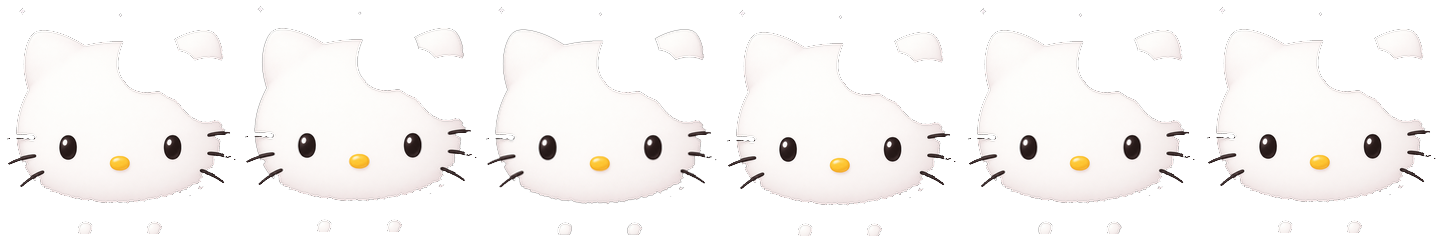
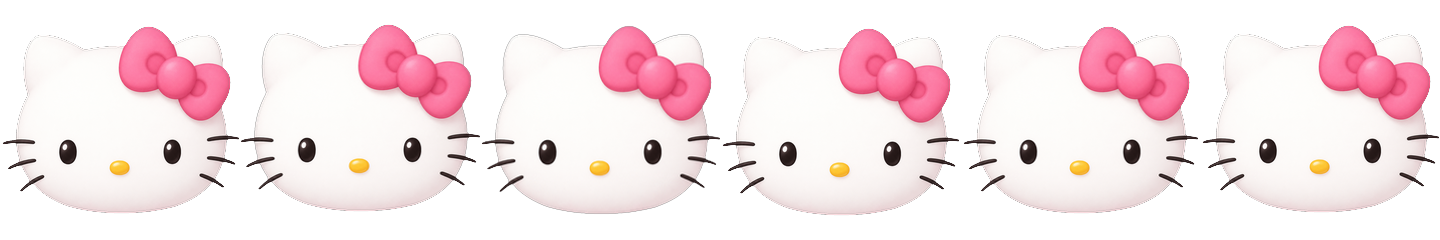
fix: 素材抠图改用 U2-Net 分割，保留粉色身体与蝴蝶结
- 旧颜色泛洪会把与背景同色系的粉身体/蝴蝶结误删（显示为黑色空洞）
- apply_pet_asset.py 优先 rembg(u2net)，失败回退颜色泛洪
- 只保留最大连通块并做边缘去粉、羽化

diff --git a/scripts/apply_pet_asset.py b/scripts/apply_pet_asset.py
@@ -30,7 +30,7 @@ def is_pink(p):
 
 
 def cutout_mask(im):
-    """从粉色背景中抠出主体：边缘粉色 flood fill，主体内部粉色保留。"""
+    """旧版颜色泛洪（仅作回退方案）：适合"白猫 + 粉背景"。"""
     w, h = im.size
     px = im.load()
     visited = bytearray(w * h)
@@ -63,13 +63,95 @@ def cutout_mask(im):
     return mask
 
 
-def clean_cutout(im, mask):
-    """收边 1px + 羽化，减少粉边残留。"""
+def largest_component(mask, threshold=128):
+    """只保留最大连通块，去掉模型/泛洪产生的背景残留小块。"""
+    w, h = mask.size
+    data = mask.load()
+    visited = bytearray(w * h)
+    best = None
+    for sy in range(h):
+        for sx in range(w):
+            idx = sy * w + sx
+            if visited[idx] or data[sx, sy] <= threshold:
+                continue
+            comp = []
+            dq = deque([(sx, sy)])
+            visited[idx] = 1
+            while dq:
+                x, y = dq.popleft()
+                comp.append((x, y))
+                for dx, dy in ((-1, 0), (1, 0), (0, -1), (0, 1)):
+                    nx, ny = x + dx, y + dy
+                    if 0 <= nx < w and 0 <= ny < h:
+                        nidx = ny * w + nx
+                        if not visited[nidx] and data[nx, ny] > threshold:
+                            visited[nidx] = 1
+                            dq.append((nx, ny))
+            if best is None or len(comp) > len(best):
+                best = comp
+    out = Image.new("L", (w, h), 0)
+    if best:
+        op = out.load()
+        for x, y in best:
+            op[x, y] = 255
+    return out
+
+
+def polish_mask(mask):
+    """收边 1px + 羽化。"""
     mask = mask.filter(ImageFilter.MinFilter(3))
     mask = mask.filter(ImageFilter.GaussianBlur(1.2))
+    return mask
+
+
+def decontaminate_edges(rgba):
+    """半透明边缘向白色靠拢，减少粉边光晕。"""
+    w, h = rgba.size
+    px = rgba.load()
+    for y in range(h):
+        for x in range(w):
+            r, g, b, a = px[x, y]
+            if 0 < a < 255:
+                k = (1 - a / 255) * 0.6
+                r = round(r + (255 - r) * k)
+                g = round(g + (255 - g) * k)
+                b = round(b + (255 - b) * k)
+                px[x, y] = (r, g, b, a)
+    return rgba
+
+
+def segment_with_rembg(im):
+    """优先方案：U2-Net 分割，保留与背景同色系的粉身体/蝴蝶结。"""
+    try:
+        from rembg import new_session, remove
+    except Exception as exc:  # rembg 未安装
+        print(f"rembg unavailable ({exc}), fallback to flood fill")
+        return None
+
+    session = new_session("u2net")
+    out = remove(im, session=session, alpha_matting=False).convert("RGBA")
+    a = out.getchannel("A")
+    hist = a.histogram()
+    opaque = sum(hist[129:])
+    if opaque < im.width * im.height * 0.05:
+        print("rembg result looks blank, fallback to flood fill")
+        return None
+
+    mask = largest_component(a)
+    mask = polish_mask(mask)
+    clean = Image.new("RGBA", im.size, (0, 0, 0, 0))
+    clean.paste(im.convert("RGB"), (0, 0), mask)
+    clean = decontaminate_edges(clean)
+    print(f"rembg segmentation: opaque={opaque}, largest component={sum(1 for v in mask.getdata() if v > 128)}")
+    return clean
+
+
+def segment_with_flood(im):
+    mask = largest_component(cutout_mask(im))
+    mask = polish_mask(mask)
     out = Image.new("RGBA", im.size, (0, 0, 0, 0))
     out.paste(im.convert("RGB"), (0, 0), mask)
-    return out
+    return decontaminate_edges(out)
 
 
 def fit_canvas(cutout):
@@ -128,8 +210,7 @@ def main():
 
     im = Image.open(src).convert("RGB")
     print(f"input: {im.size}")
-    mask = cutout_mask(im)
-    cut = clean_cutout(im, mask)
+    cut = segment_with_rembg(im) or segment_with_flood(im)
     base = fit_canvas(cut)
     print(f"subject bbox: {cut.getbbox()}, frame: {FRAME}x{FRAME}")
 
